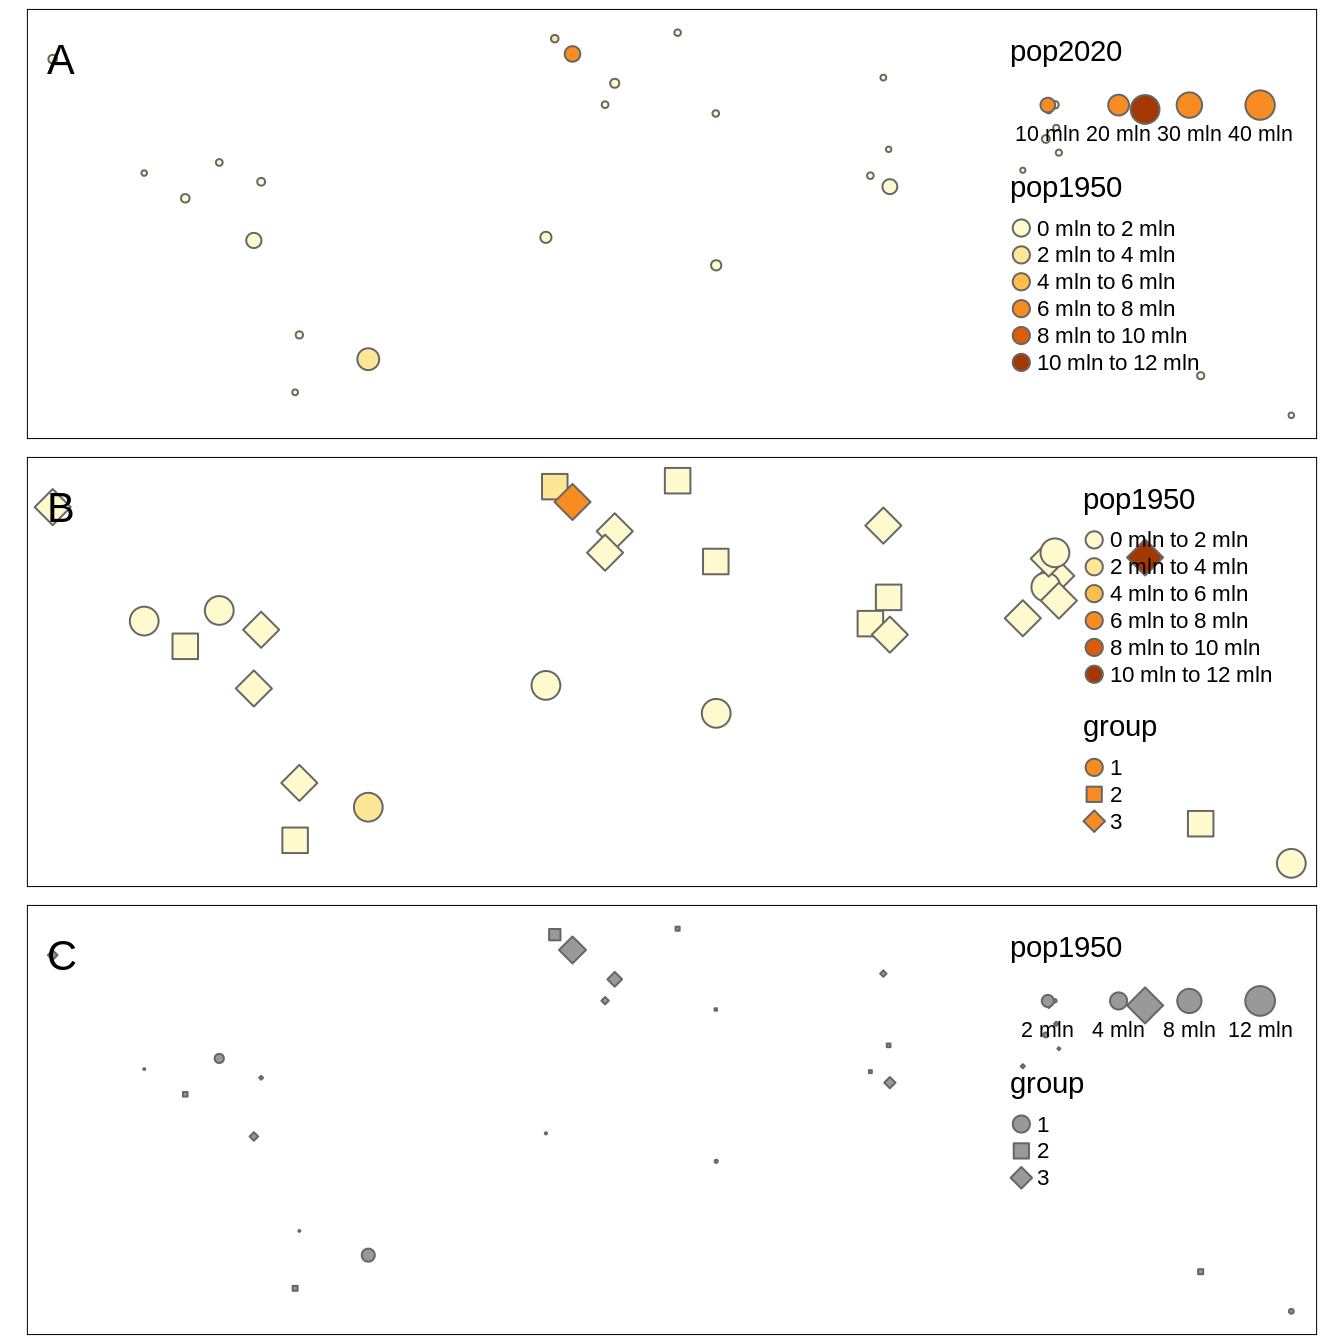
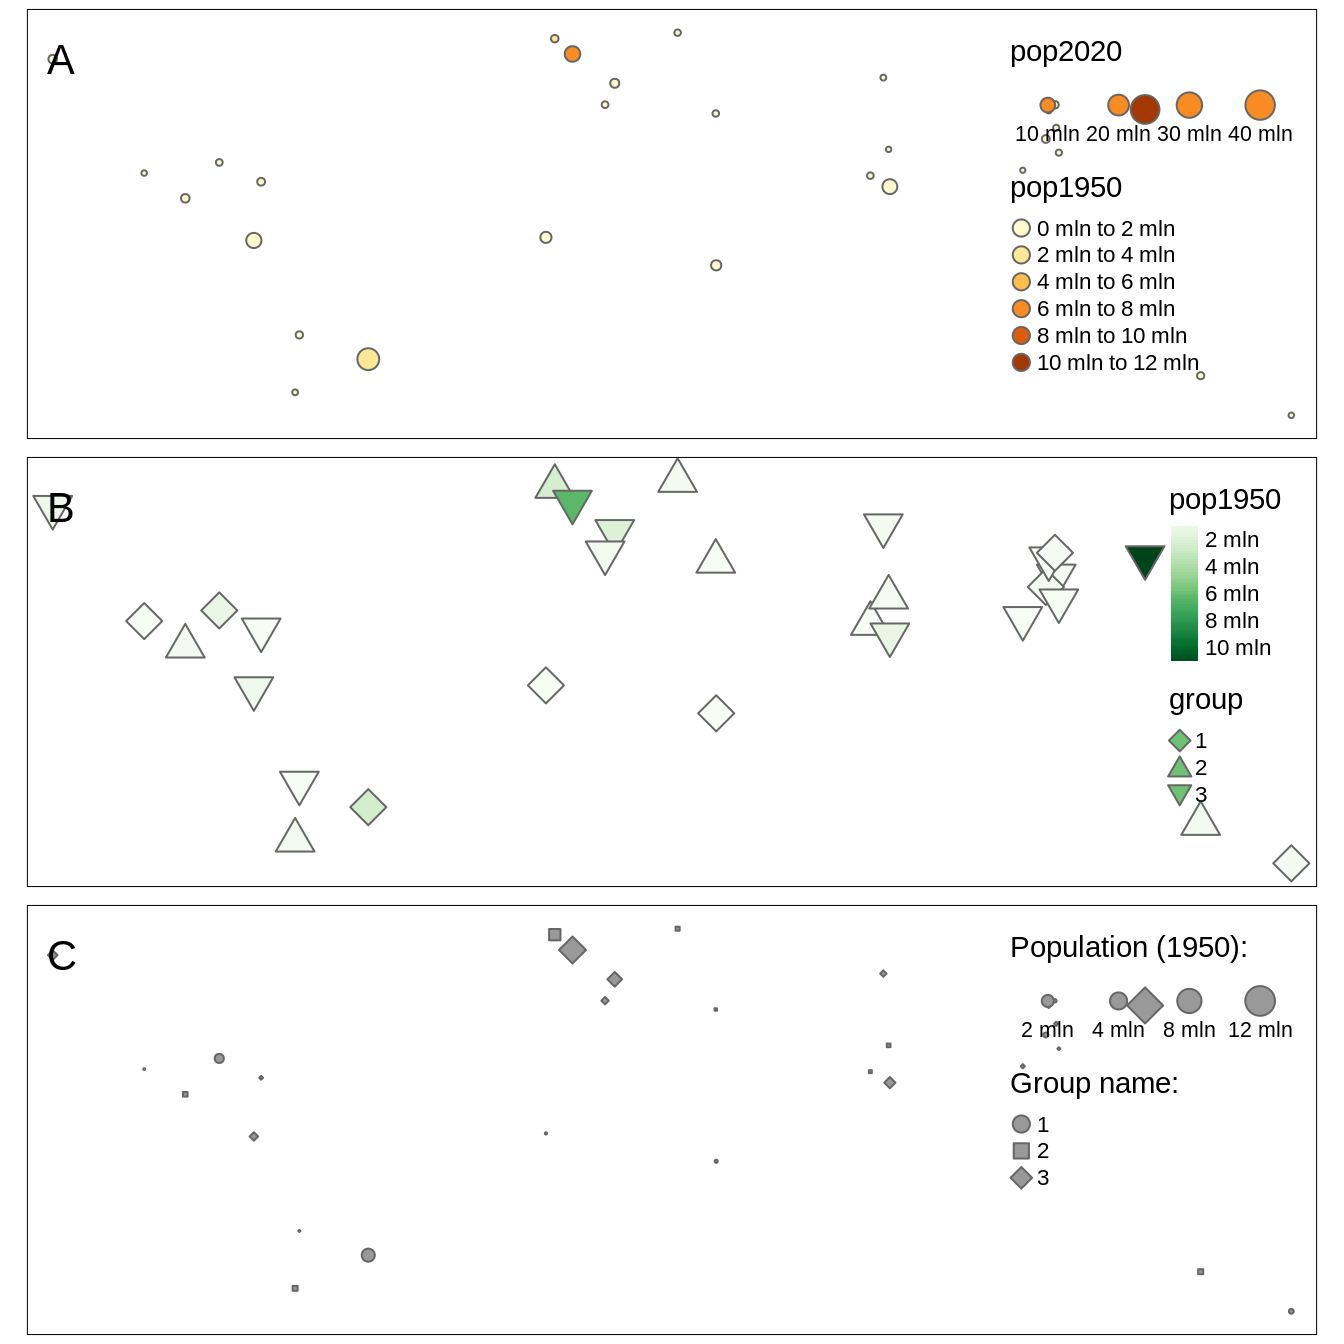
Deploy commit: cleans old comments b1ce4dff7738b531adcc3f05859009d46860dcff

diff --git a/layers.html b/layers.html
@@ -24,7 +24,7 @@
 <meta name="author" content="Martijn Tennekes, Jakub Nowosad" />
 
 
-<meta name="date" content="2020-11-12" />
+<meta name="date" content="2020-11-13" />
 
   <meta name="viewport" content="width=device-width, initial-scale=1" />
   <meta name="apple-mobile-web-app-capable" content="yes" />
@@ -950,22 +950,21 @@ For example, we can set the color style (<code>style</code>), color palette (<co
 <span id="cb43-2"><a href="layers.html#cb43-2"></a><span class="kw">tm_shape</span>(metro2) <span class="op">+</span></span>
 <span id="cb43-3"><a href="layers.html#cb43-3"></a><span class="st">  </span><span class="kw">tm_symbols</span>(<span class="dt">col =</span> <span class="st">&quot;pop1950&quot;</span>, <span class="dt">style =</span> <span class="st">&quot;cont&quot;</span>, <span class="dt">palette =</span> <span class="st">&quot;Greens&quot;</span>,</span>
 <span id="cb43-4"><a href="layers.html#cb43-4"></a>             <span class="dt">shape =</span> <span class="st">&quot;group&quot;</span>, <span class="dt">shapes =</span> <span class="kw">c</span>(<span class="dv">23</span>, <span class="dv">24</span>, <span class="dv">25</span>))</span></code></pre></div>
-<p>(Figure <a href="layers.html#fig:mixsymb">5.15</a>:C).</p>
+<p>When we use plot polygons, there is only one visual variable we can use - color.
+Therefore, changing of map legend’s title in functions like <code>tm_polygons()</code> or <code>tm_fill()</code> is done with the <code>title</code> argument.
+However, what to do when we have two or more visual variables in, for example, <code>tm_symbols()</code>?
+In these cases, we need to specify a corresponding suffix for each <code>title</code> argument.
+The color title is set with <code>title.col</code>, size title with <code>title.size</code>, and shape title with <code>title.size</code> (Figure <a href="layers.html#fig:mixsymb">5.15</a>:C).</p>
 <div class="sourceCode" id="cb44"><pre class="sourceCode r"><code class="sourceCode r"><span id="cb44-1"><a href="layers.html#cb44-1"></a><span class="co"># not the best example - to fix</span></span>
 <span id="cb44-2"><a href="layers.html#cb44-2"></a><span class="kw">tm_shape</span>(metro2) <span class="op">+</span></span>
-<span id="cb44-3"><a href="layers.html#cb44-3"></a><span class="st"> </span><span class="kw">tm_symbols</span>(<span class="dt">size =</span> <span class="st">&quot;pop1950&quot;</span>, <span class="dt">shape =</span> <span class="st">&quot;group&quot;</span>)</span></code></pre></div>
+<span id="cb44-3"><a href="layers.html#cb44-3"></a><span class="st"> </span><span class="kw">tm_symbols</span>(<span class="dt">size =</span> <span class="st">&quot;pop1950&quot;</span>, <span class="dt">title.size =</span> <span class="st">&quot;Population (1950):&quot;</span>,</span>
+<span id="cb44-4"><a href="layers.html#cb44-4"></a>            <span class="dt">shape =</span> <span class="st">&quot;group&quot;</span>, <span class="dt">title.shape =</span> <span class="st">&quot;Group name:&quot;</span>)</span></code></pre></div>
 <div class="figure" style="text-align: center"><span id="fig:mixsymb"></span>
 <img src="05-layers_files/figure-html/mixsymb-1.png" alt="(A), (B), (C)" width="672" />
 <p class="caption">
 FIGURE 5.15: (A), (B), (C)
 </p>
 </div>
-<!--create all of the below examples, but maybe just show a few-->
-<!-- 1. sequential colors + size -->
-<!-- 2. categorical colors + size -->
-<!-- 3. sequential colors + shape -->
-<!-- 4. categorical colors + shape -->
-<!-- 5. shape + size -->
 <p>(Figure <a href="layers.html#fig:mixline">5.16</a>).</p>
 <div class="figure" style="text-align: center"><span id="fig:mixline"></span>
 <img src="05-layers_files/figure-html/mixline-1.png" alt="..." width="672" />
@@ -973,8 +972,6 @@ FIGURE 5.15: (A), (B), (C)
 FIGURE 5.16: …
 </p>
 </div>
-<!-- 1. sequential lines + size -->
-<!-- 2. categorical lines + size -->
 
 </div>
 </div>

diff --git a/index.html b/index.html
@@ -24,7 +24,7 @@
 <meta name="author" content="Martijn Tennekes, Jakub Nowosad" />
 
 
-<meta name="date" content="2020-11-12" />
+<meta name="date" content="2020-11-13" />
 
   <meta name="viewport" content="width=device-width, initial-scale=1" />
   <meta name="apple-mobile-web-app-capable" content="yes" />
@@ -220,12 +220,12 @@ code span.wa { color: #60a0b0; font-weight: bold; font-style: italic; } /* Warni
 <div id="header">
 <h1 class="title">Elegant and informative maps with <strong>tmap</strong></h1>
 <p class="author"><em>Martijn Tennekes, Jakub Nowosad</em></p>
-<p class="date"><em>2020-11-12</em></p>
+<p class="date"><em>2020-11-13</em></p>
 </div>
 <div id="welcome" class="section level1 unnumbered">
 <h1>Welcome</h1>
 <p>This is the online home of <em>Elegant and informative maps with <strong>tmap</strong></em>, a book on geospatial data visualization with the R-package tmap.</p>
-<p>This version of the book was built on GH Actions on 2020-11-12.</p>
+<p>This version of the book was built on GH Actions on 2020-11-13.</p>
 <div id="how-to-contribute" class="section level2 unnumbered">
 <h2>How to contribute?</h2>
 

diff --git a/animations.html b/animations.html
@@ -24,7 +24,7 @@
 <meta name="author" content="Martijn Tennekes, Jakub Nowosad" />
 
 
-<meta name="date" content="2020-11-12" />
+<meta name="date" content="2020-11-13" />
 
   <meta name="viewport" content="width=device-width, initial-scale=1" />
   <meta name="apple-mobile-web-app-capable" content="yes" />

diff --git a/geodata.html b/geodata.html
@@ -24,7 +24,7 @@
 <meta name="author" content="Martijn Tennekes, Jakub Nowosad" />
 
 
-<meta name="date" content="2020-11-12" />
+<meta name="date" content="2020-11-13" />
 
   <meta name="viewport" content="width=device-width, initial-scale=1" />
   <meta name="apple-mobile-web-app-capable" content="yes" />

diff --git a/goodmaps.html b/goodmaps.html
@@ -24,7 +24,7 @@
 <meta name="author" content="Martijn Tennekes, Jakub Nowosad" />
 
 
-<meta name="date" content="2020-11-12" />
+<meta name="date" content="2020-11-13" />
 
   <meta name="viewport" content="width=device-width, initial-scale=1" />
   <meta name="apple-mobile-web-app-capable" content="yes" />

diff --git a/interactive.html b/interactive.html
@@ -24,7 +24,7 @@
 <meta name="author" content="Martijn Tennekes, Jakub Nowosad" />
 
 
-<meta name="date" content="2020-11-12" />
+<meta name="date" content="2020-11-13" />
 
   <meta name="viewport" content="width=device-width, initial-scale=1" />
   <meta name="apple-mobile-web-app-capable" content="yes" />

diff --git a/intro.html b/intro.html
@@ -24,7 +24,7 @@
 <meta name="author" content="Martijn Tennekes, Jakub Nowosad" />
 
 
-<meta name="date" content="2020-11-12" />
+<meta name="date" content="2020-11-13" />
 
   <meta name="viewport" content="width=device-width, initial-scale=1" />
   <meta name="apple-mobile-web-app-capable" content="yes" />

diff --git a/layout.html b/layout.html
@@ -24,7 +24,7 @@
 <meta name="author" content="Martijn Tennekes, Jakub Nowosad" />
 
 
-<meta name="date" content="2020-11-12" />
+<meta name="date" content="2020-11-13" />
 
   <meta name="viewport" content="width=device-width, initial-scale=1" />
   <meta name="apple-mobile-web-app-capable" content="yes" />

diff --git a/multiples.html b/multiples.html
@@ -24,7 +24,7 @@
 <meta name="author" content="Martijn Tennekes, Jakub Nowosad" />
 
 
-<meta name="date" content="2020-11-12" />
+<meta name="date" content="2020-11-13" />
 
   <meta name="viewport" content="width=device-width, initial-scale=1" />
   <meta name="apple-mobile-web-app-capable" content="yes" />

diff --git a/nutshell.html b/nutshell.html
@@ -24,7 +24,7 @@
 <meta name="author" content="Martijn Tennekes, Jakub Nowosad" />
 
 
-<meta name="date" content="2020-11-12" />
+<meta name="date" content="2020-11-13" />
 
   <meta name="viewport" content="width=device-width, initial-scale=1" />
   <meta name="apple-mobile-web-app-capable" content="yes" />

diff --git a/options.html b/options.html
@@ -24,7 +24,7 @@
 <meta name="author" content="Martijn Tennekes, Jakub Nowosad" />
 
 
-<meta name="date" content="2020-11-12" />
+<meta name="date" content="2020-11-13" />
 
   <meta name="viewport" content="width=device-width, initial-scale=1" />
   <meta name="apple-mobile-web-app-capable" content="yes" />

diff --git a/othertypes.html b/othertypes.html
@@ -24,7 +24,7 @@
 <meta name="author" content="Martijn Tennekes, Jakub Nowosad" />
 
 
-<meta name="date" content="2020-11-12" />
+<meta name="date" content="2020-11-13" />
 
   <meta name="viewport" content="width=device-width, initial-scale=1" />
   <meta name="apple-mobile-web-app-capable" content="yes" />
